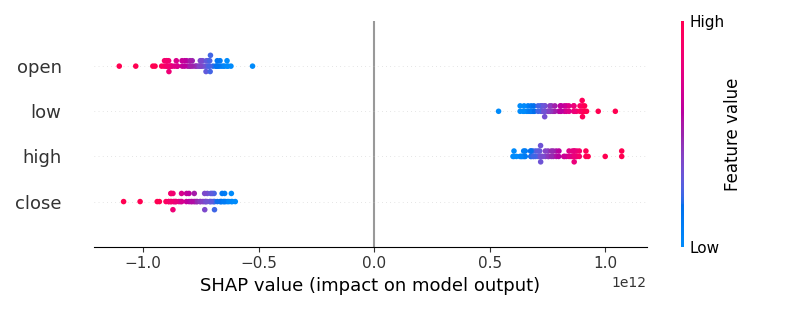
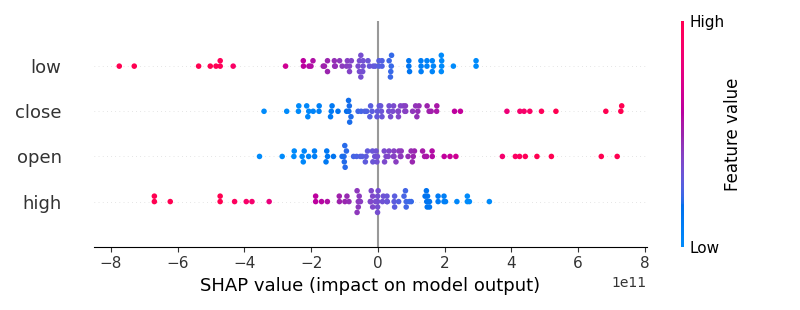
modified:   backtest.py 	new file:   portfolio_value_realistic.png 	modified:   shap_summary.png

diff --git a/backtest.py b/backtest.py
@@ -6,31 +6,37 @@ import matplotlib
 matplotlib.use('Agg')
 import matplotlib.pyplot as plt
 
+# --- Simulation Settings ---
 DATA_FILE = 'project3/data/bitcoin_usd.csv'
 INITIAL_CASH = 10000  # USD
 WINDOW = 30  # Rolling window size for training
-ALERT_THRESHOLD = 0.01  # 1% predicted move
+
+# --- Realism Settings ---
+FEE_RATE = 0.001  # 0.1% fee per trade
+SLIPPAGE_RATE = 0.0005  # 0.05% random slippage
+HOLD_THRESHOLD = 0.002 # Must predict a 0.2% move to overcome fees+slippage
 
 # Load data
 df = pd.read_csv(DATA_FILE, parse_dates=['timestamp'])
 
-# Prepare ML data
 def prepare_ml_data(df):
-    ml_df = df[['close', 'high', 'low', 'open']].copy()
+    ml_df = df[['timestamp', 'close', 'high', 'low', 'open']].copy()
     ml_df['next_output'] = ml_df['close'].shift(-1)
     ml_df = ml_df.dropna()
     return ml_df
 
 ml_df = prepare_ml_data(df)
 
-# Initialize portfolio
+# --- Portfolio & Logging Initialization ---
 cash = INITIAL_CASH
 btc = 0.0
 portfolio_values = []
+trade_log = []
 alerts = []
 shap_values_list = []
 explainer = None
 
+print("Starting realistic backtest...")
 for i in range(WINDOW, len(ml_df) - 1):
     train = ml_df.iloc[i-WINDOW:i]
     test = ml_df.iloc[i+1:i+2]
@@ -38,65 +44,85 @@ for i in range(WINDOW, len(ml_df) - 1):
     y_train = train['next_output']
     X_test = test[['close', 'high', 'low', 'open']]
     current_price = test['close'].values[0]
+    current_time = test['timestamp'].values[0]
 
-    # Train model
     model = LinearRegression()
     model.fit(X_train, y_train)
     pred = model.predict(X_test)[0]
     pct_move = (pred - current_price) / current_price
 
-    # SHAP explainability
     if explainer is None:
         explainer = shap.Explainer(model, X_train)
     shap_values = explainer(X_test)
     shap_values_list.append(shap_values.values[0])
 
-    # Alerting
-    if abs(pct_move) > ALERT_THRESHOLD:
-        direction = 'UP' if pct_move > 0 else 'DOWN'
-        alerts.append((test['timestamp'].values[0], direction, pct_move))
-        print(f"ALERT: {test['timestamp'].values[0]} Model predicts {direction} move of {pct_move*100:.2f}%")
-
-    # Paper trading logic: buy if up, sell if down
-    if pct_move > 0 and cash > 0:
-        # Buy BTC with all cash
-        btc = cash / current_price
+    # --- Realistic Trading Logic ---
+    trade_action = 'HOLD'
+    if pct_move > HOLD_THRESHOLD and cash > 0:
+        # --- Simulate BUY with fees and slippage ---
+        buy_price = current_price * (1 + SLIPPAGE_RATE * np.random.rand())
+        btc_to_buy = (cash / buy_price)
+        fee = btc_to_buy * FEE_RATE
+        btc_to_buy -= fee
+        
+        btc += btc_to_buy
         cash = 0
-    elif pct_move < 0 and btc > 0:
-        # Sell all BTC
-        cash = btc * current_price
+        trade_action = 'BUY'
+        trade_log.append((current_time, 'BUY', buy_price, btc_to_buy, fee * buy_price))
+
+    elif pct_move < -HOLD_THRESHOLD and btc > 0:
+        # --- Simulate SELL with fees and slippage ---
+        sell_price = current_price * (1 - SLIPPAGE_RATE * np.random.rand())
+        fee = btc * sell_price * FEE_RATE
+        
+        cash = btc * sell_price - fee
         btc = 0
-    # Track portfolio value
+        trade_action = 'SELL'
+        trade_log.append((current_time, 'SELL', sell_price, btc, fee))
+
+    if i % 10 == 0:
+        print(f"{current_time} - Price: ${current_price:,.2f}, Predicted Move: {pct_move:+.4f}%, Action: {trade_action}")
+
     portfolio_value = cash + btc * current_price
     portfolio_values.append(portfolio_value)
 
-# Final stats
-print(f"Final portfolio value: ${portfolio_values[-1]:.2f}")
-returns = (portfolio_values[-1] - INITIAL_CASH) / INITIAL_CASH * 100
-print(f"Total return: {returns:.2f}%")
+print("Backtest finished.")
+# --- Performance Analysis ---
+returns_df = pd.DataFrame(portfolio_values, columns=['value'])
+returns_df['daily_return'] = returns_df['value'].pct_change()
 
-# Get the correct timestamps from the original dataframe
+sharpe_ratio = (returns_df['daily_return'].mean() / returns_df['daily_return'].std()) * np.sqrt(252) # Annualized
+
+peak = returns_df['value'].expanding(min_periods=1).max()
+drawdown = (returns_df['value'] - peak) / peak
+max_drawdown = drawdown.min()
+
+print("\n--- Performance Metrics ---")
+print(f"Final Portfolio Value: ${portfolio_values[-1]:,.2f}")
+print(f"Total Return: {(portfolio_values[-1] - INITIAL_CASH) / INITIAL_CASH * 100:.2f}%")
+print(f"Annualized Sharpe Ratio: {sharpe_ratio:.2f}")
+print(f"Maximum Drawdown: {max_drawdown*100:.2f}%")
+if trade_log:
+    log_df = pd.DataFrame(trade_log, columns=['Timestamp', 'Action', 'Price', 'Quantity', 'Fee (USD)'])
+    log_df.to_csv('trade_log.csv', index=False)
+    print("\nTrade log saved to trade_log.csv")
+else:
+    print("\nNo trades were executed.")
+
+# --- Plotting ---
 timestamps = df['timestamp'].iloc[WINDOW+1:WINDOW+1+len(portfolio_values)].values
-df_plot = pd.DataFrame({
-    'timestamp': timestamps,
-    'portfolio_value': portfolio_values
-})
-df_plot.set_index('timestamp')['portfolio_value'].plot(title='Portfolio Value Over Time')
+df_plot = pd.DataFrame({'timestamp': timestamps, 'portfolio_value': portfolio_values})
+df_plot.set_index('timestamp')['portfolio_value'].plot(title='Portfolio Value Over Time (Realistic Simulation)')
 plt.ylabel('USD')
-plt.savefig('portfolio_value.png')
-print('Portfolio value plot saved as portfolio_value.png')
+plt.savefig('portfolio_value_realistic.png')
+print('Portfolio value plot saved as portfolio_value_realistic.png')
+plt.clf()
 
-# Only use the feature columns for SHAP summary plot
+# --- SHAP Plot ---
 feature_cols = ['close', 'high', 'low', 'open']
 X_shap = ml_df[feature_cols].iloc[WINDOW+1:WINDOW+1+len(portfolio_values)].copy()
 X_shap.index = range(len(X_shap))
-plt.clf()  # Clear any previous matplotlib state
-shap.summary_plot(
-    np.array(shap_values_list),
-    X_shap,
-    feature_names=feature_cols,
-    show=False
-)
+shap.summary_plot(np.array(shap_values_list), X_shap, feature_names=feature_cols, show=False)
 fig = plt.gcf()
 fig.savefig('shap_summary.png')
 plt.close(fig)
